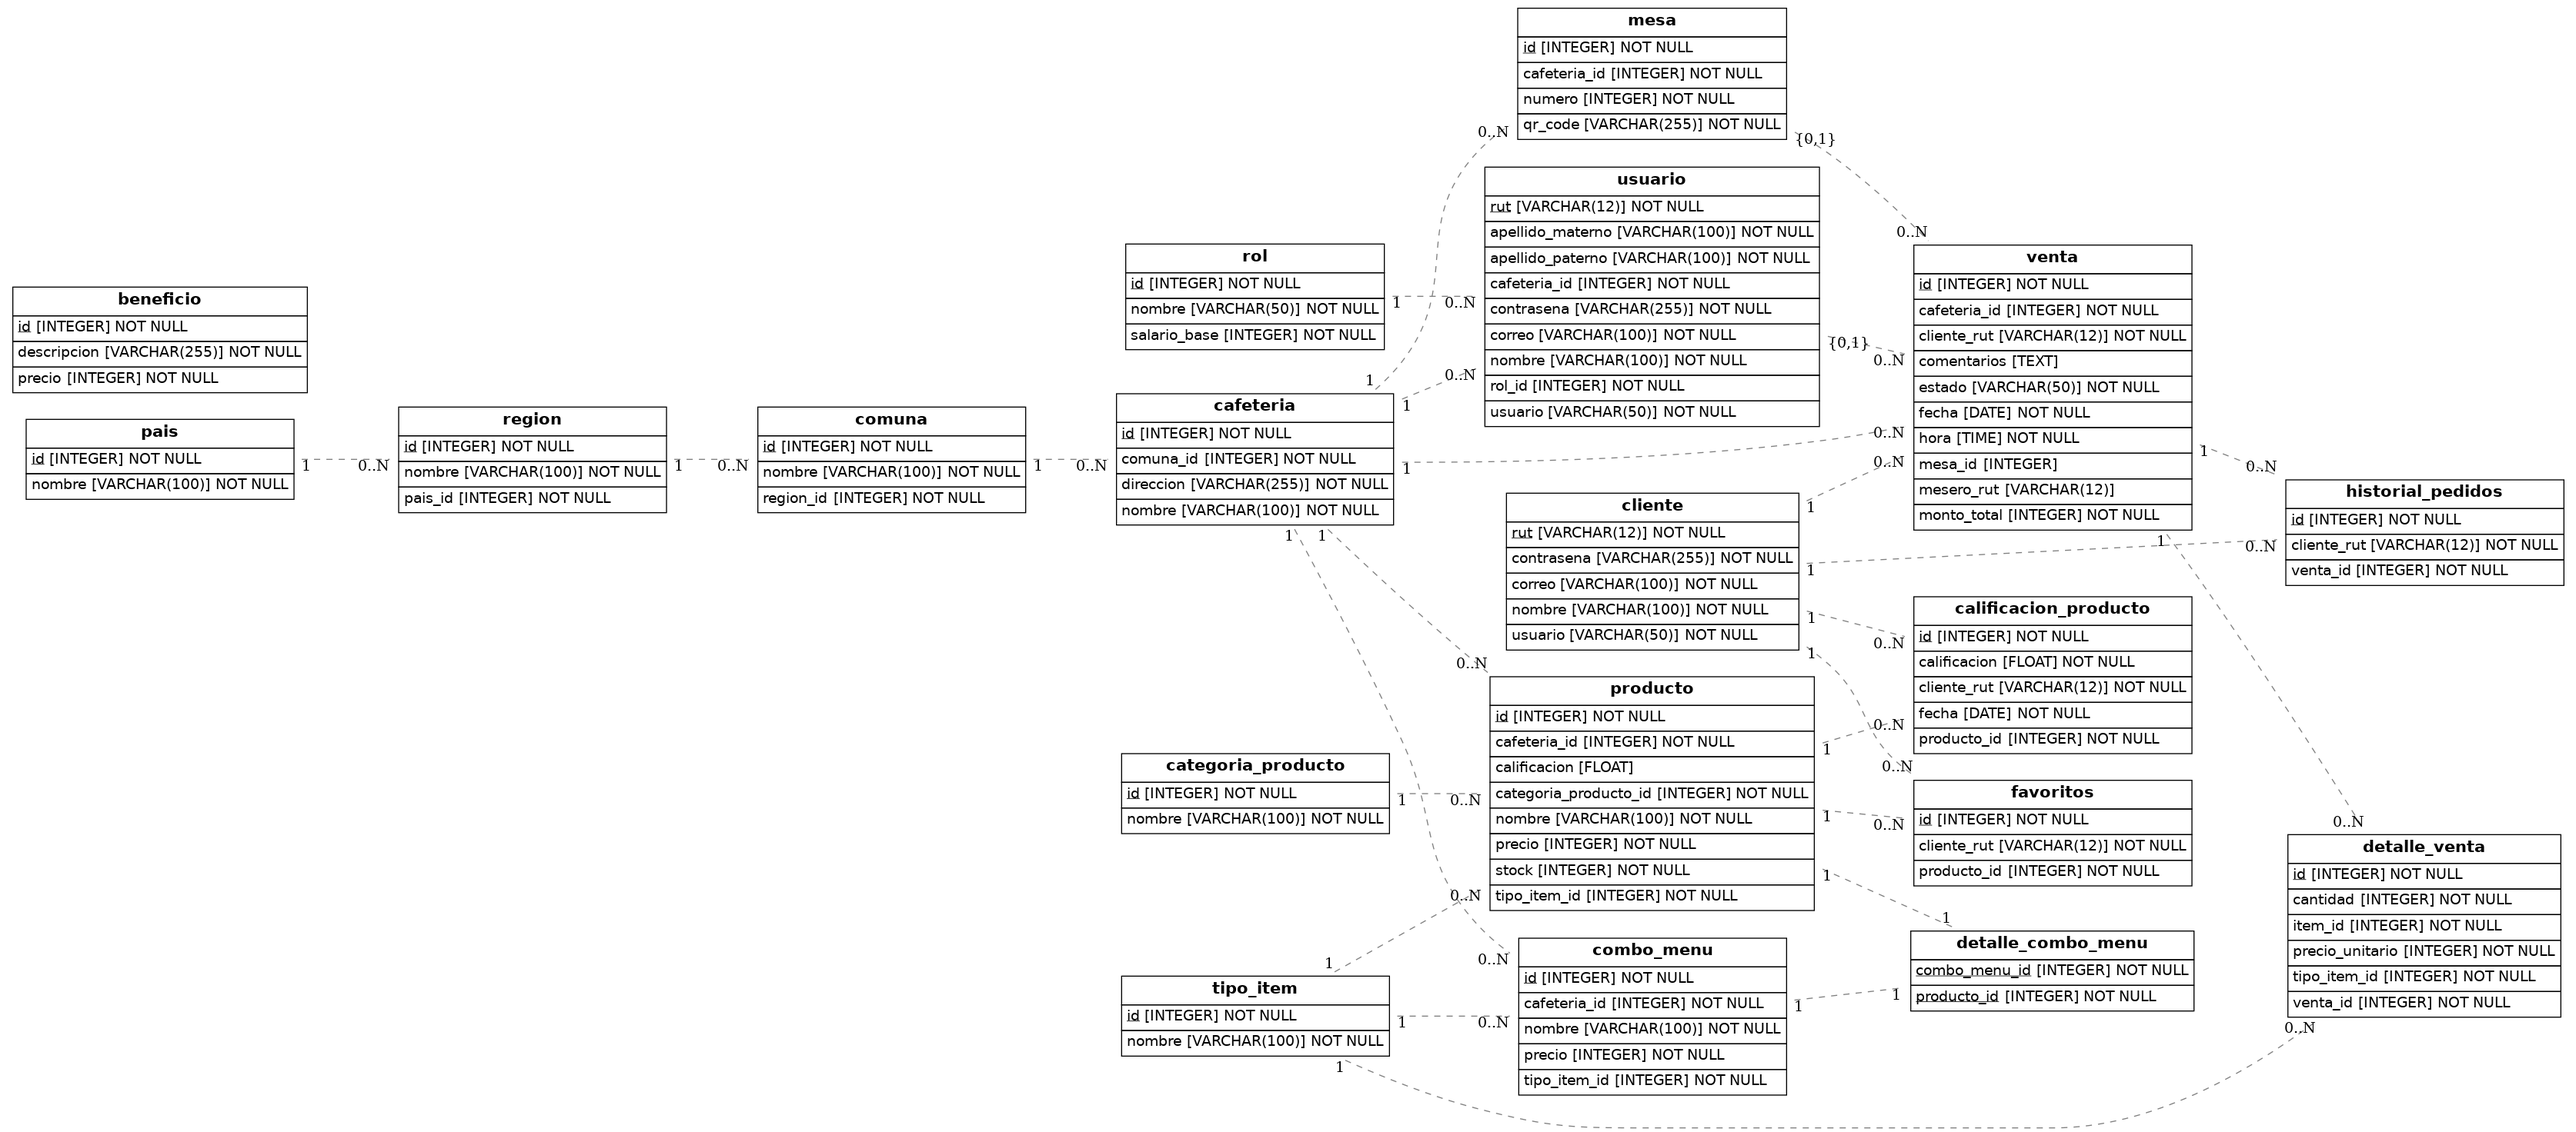
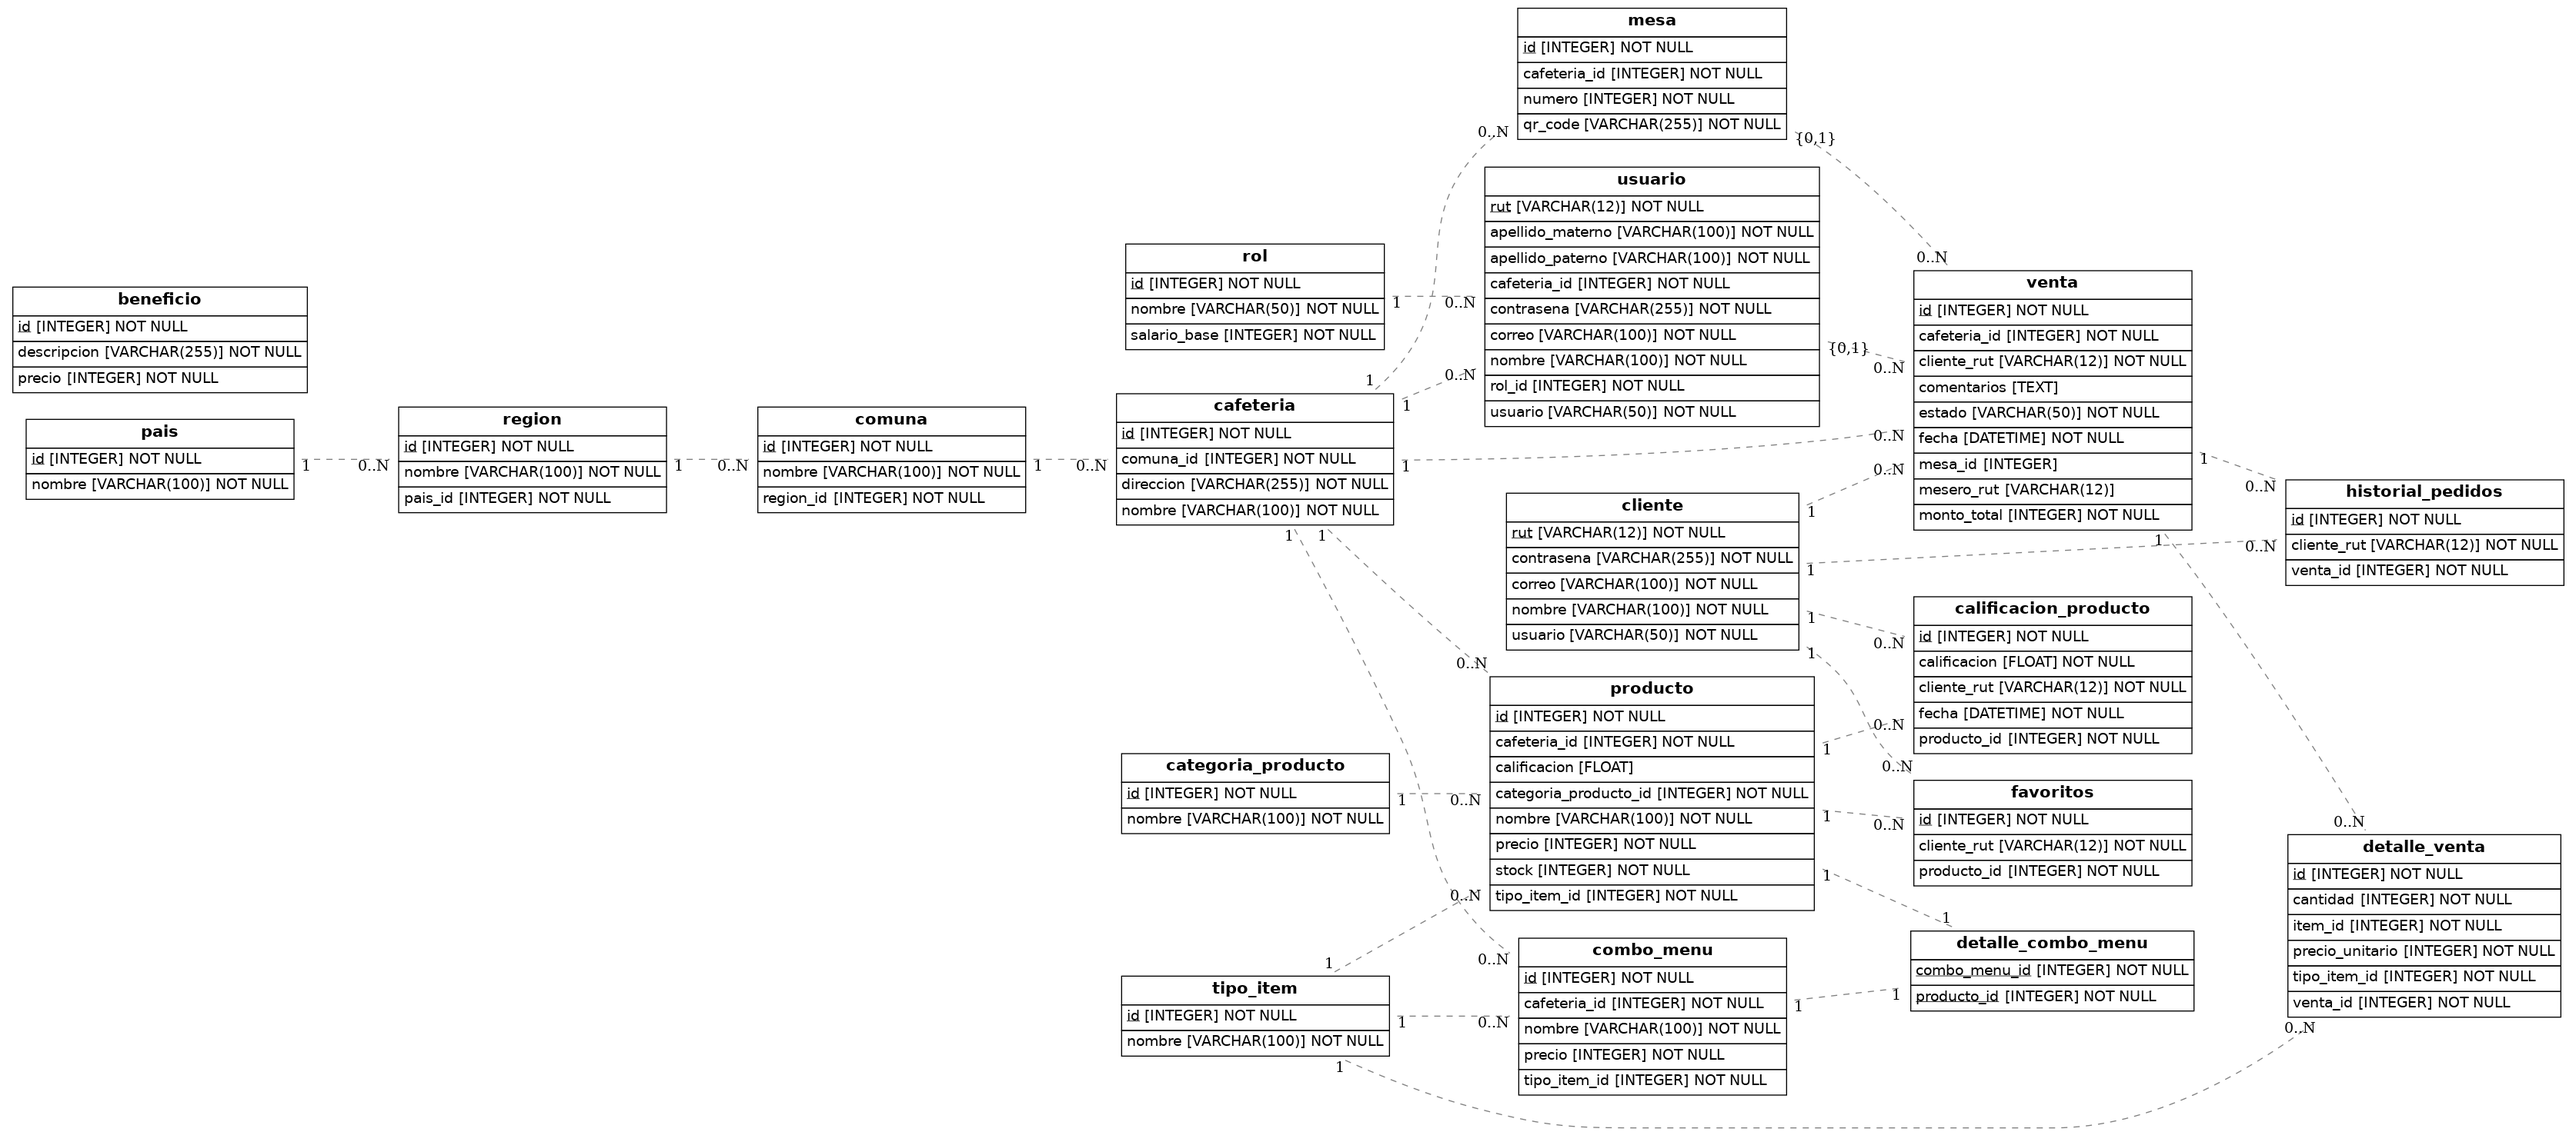
a

Changed region(s): [[0.7457, 0.2188, 0.839, 0.4062], [0.7768, 0.625, 0.8079, 0.6562]]

diff --git a/src/models.py b/src/models.py
@@ -1,6 +1,7 @@
 import os
 import sys
-from sqlalchemy import Column, ForeignKey, Integer, String, Date, Time, Table, Text, Float, Boolean
+from sqlalchemy import Column, ForeignKey, Integer, String, DateTime, Table, Text, Float
+from datetime import datetime
 from sqlalchemy.orm import relationship, declarative_base
 from eralchemy2 import render_er
 
@@ -146,8 +147,7 @@ class Mesa(Base):
 class Venta(Base):
     __tablename__ = 'venta'
     id = Column(Integer, primary_key=True, autoincrement=True)
-    fecha = Column(Date, nullable=False)
-    hora = Column(Time, nullable=False)
+    fecha = Column(DateTime, nullable=False, default=datetime.now)  # Usamos DateTime para incluir fecha y hora
     monto_total = Column(Integer, nullable=False)
     estado = Column(String(50), nullable=False, default="pendiente")
     comentarios = Column(Text, nullable=True)
@@ -174,8 +174,7 @@ class CalificacionProducto(Base):
     cliente_rut = Column(String(12), ForeignKey('cliente.rut'), nullable=False)
     producto_id = Column(Integer, ForeignKey('producto.id'), nullable=False)
     calificacion = Column(Float, nullable=False)
-    fecha = Column(Date, nullable=False)
-
+    fecha = Column(DateTime, nullable=False, default=datetime.now)
 
 # Dibujar el diagrama
 render_er(Base, 'diagrama_cafeteria.png')
